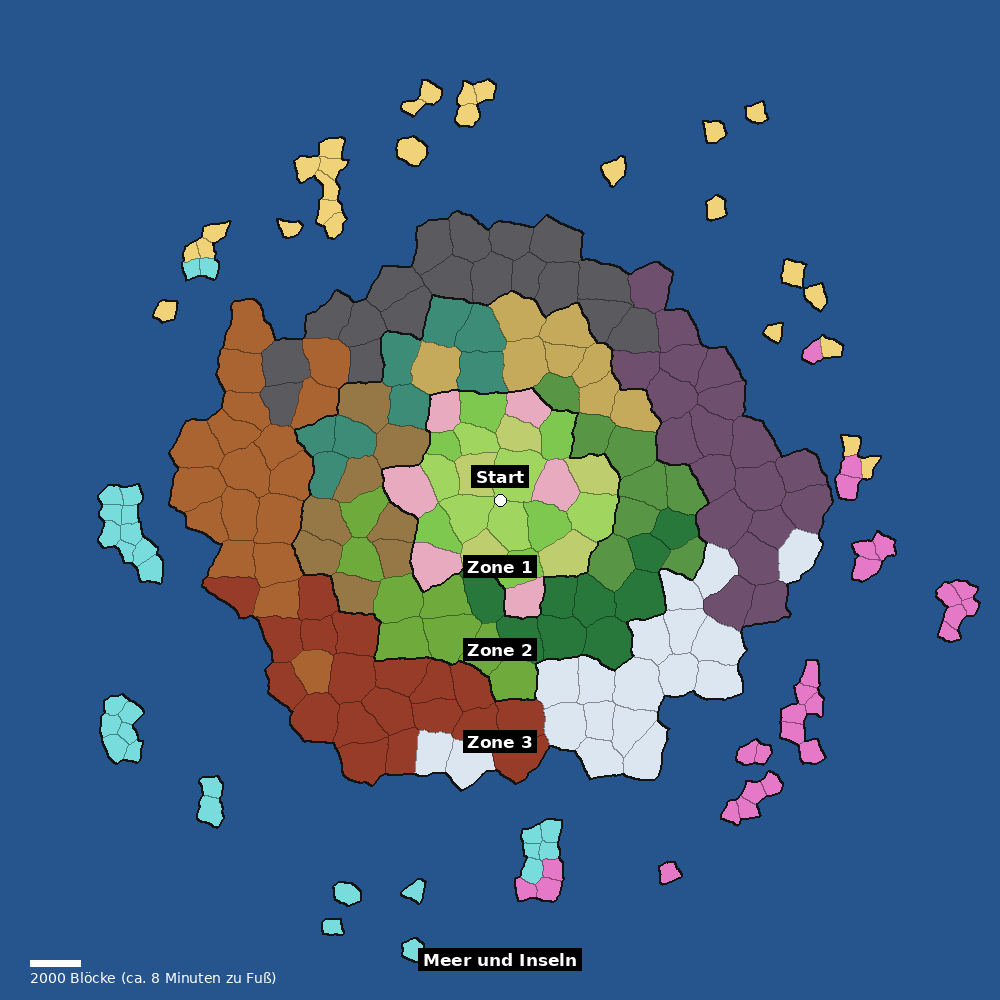
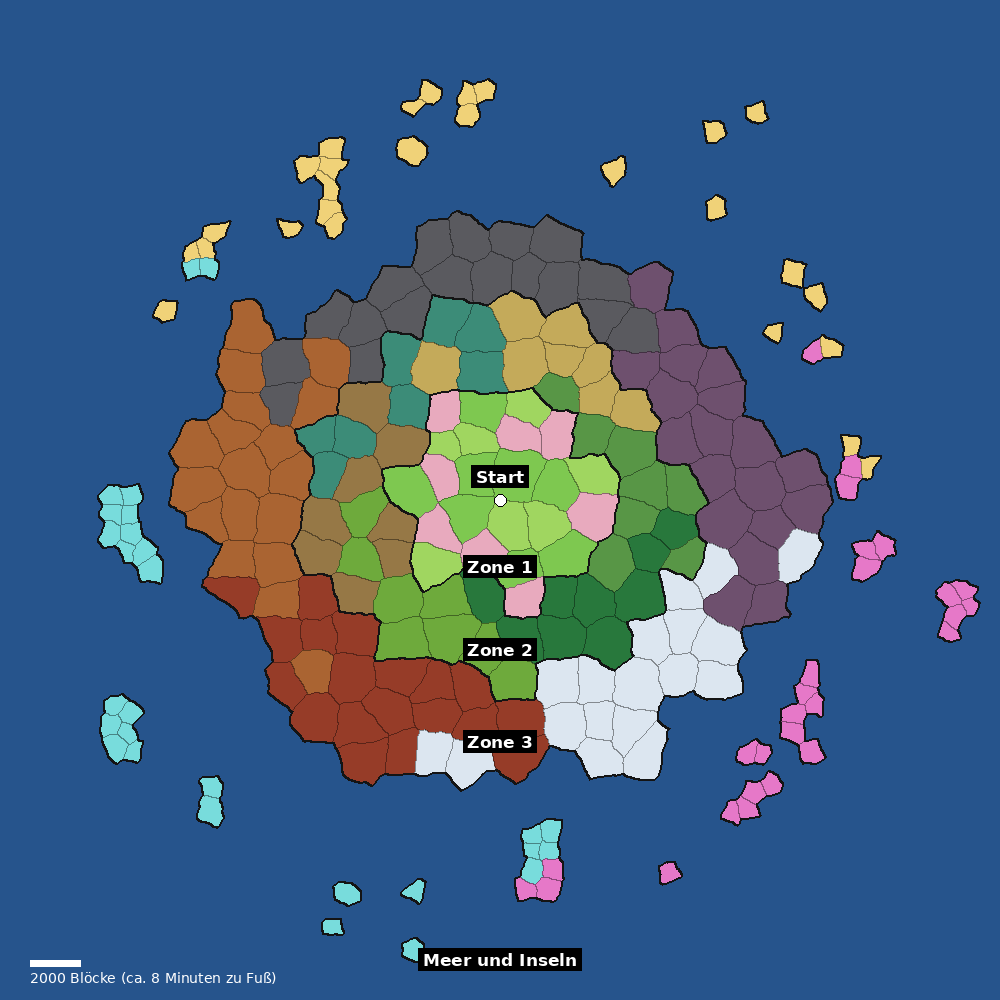
Describe landforms and set three biomes for the start zone
Claude-Session: https://claude.ai/code/session_01CpcsHMU5K4KSjvD6V1ae2q

Changed region(s): [[0.372, 0.372, 0.62, 0.589]]

diff --git a/docs/landschaft/skizze.py b/docs/landschaft/skizze.py
@@ -1,0 +1,59 @@
+# Sketch of four landform formulas of Wanderlore as shaded relief.
+# A discussion aid in Python, not game code. Usage: python3 skizze.py [out.png]
+import sys
+import numpy as np
+from PIL import Image, ImageDraw, ImageFont
+S=800; P=400                      # each panel: S x S nodes, P px
+def vnoise(x,y,scale,seed):
+    r=np.random.default_rng(seed); g=r.random((128,128))
+    xs=x/scale; ys=y/scale; x0=np.floor(xs).astype(int); y0=np.floor(ys).astype(int)
+    fx=xs-x0; fy=ys-y0; fx=fx*fx*(3-2*fx); fy=fy*fy*(3-2*fy)
+    a=g[x0%128,y0%128]; b=g[(x0+1)%128,y0%128]; c=g[x0%128,(y0+1)%128]; d=g[(x0+1)%128,(y0+1)%128]
+    return (a*(1-fx)+b*fx)*(1-fy)+(c*(1-fx)+d*fx)*fy
+def fbm(x,y,scale,seed,oct=4):
+    v=0;amp=1;tot=0
+    for o in range(oct):
+        v+=amp*vnoise(x,y,scale/(2**o),seed+7*o); tot+=amp; amp*=0.5
+    return v/tot*2-1
+def smooth(t): t=np.clip(t,0,1); return t*t*(3-2*t)
+xs=np.linspace(0,S,P); x,z=np.meshgrid(xs,xs)
+def hills():      # gentle hills with stream valleys
+    h=24+22*fbm(x,z,260,1)
+    v=np.abs(fbm(x,z,330,5,2)); return h-14*(1-smooth(v/0.12)), 6
+def terraces():   # stepped terraces with basins
+    b=55+48*fbm(x,z,420,11,3); step=11
+    q=np.floor(b/step); f=b/step-q
+    return step*(q+smooth((f-0.82)/0.18))+0.6*fbm(x,z,40,13,2), 2
+def canyons():    # plateau cut by canyons
+    plateau=84+8*fbm(x,z,200,21)
+    r=1-np.abs(fbm(x,z,360,25,3)); cut=smooth((r-0.80)/0.12)
+    return plateau-72*cut+4*cut*fbm(x,z,50,27,2), 6
+def spires():     # flat ground with needles
+    base=10+4*fbm(x,z,220,31)
+    p=fbm(x,z,55,35,2); return base+118*np.clip((p-0.30)/0.5,0,1)**1.5, 2
+panels=[("Hügel mit Bachtälern (Blossom Downs)",hills,[(60,120,60),(120,190,90),(190,220,140)]),
+        ("Terrassen (Bamboo Terraces)",terraces,[(40,110,90),(110,170,90),(210,220,150)]),
+        ("Schluchten (Ember Scar)",canyons,[(230,120,30),(140,60,40),(200,120,90)]),
+        ("Felsnadeln (Frost Spires)",spires,[(150,190,220),(200,225,240),(250,250,255)])]
+try: f=ImageFont.truetype('/usr/share/fonts/truetype/dejavu/DejaVuSans-Bold.ttf',15); fs=ImageFont.truetype('/usr/share/fonts/truetype/dejavu/DejaVuSans.ttf',13)
+except Exception: f=fs=ImageFont.load_default()
+out=Image.new('RGB',(2*P+30,2*(P+170)+10),(25,28,32)); d=ImageDraw.Draw(out)
+for i,(name,fn,cols) in enumerate(panels):
+    h,water=fn(); lo,hi=h.min(),h.max()
+    t=(h-lo)/(hi-lo+1e-9); c=np.array(cols,float)
+    rgb=np.where(t[...,None]<0.5,c[0]+(c[1]-c[0])*(t[...,None]*2),c[1]+(c[2]-c[1])*((t[...,None]-0.5)*2))
+    gy,gx=np.gradient(h,S/P); sh=np.clip(0.75+0.5*(-gx-gy)/np.sqrt(1+gx*gx+gy*gy)*1.2,0.25,1.35)
+    rgb=np.clip(rgb*sh[...,None],0,255)
+    if name.startswith("Hügel") or name.startswith("Terr"): rgb[h<(0 if name.startswith('Terr') else water+4)]=(60,120,190)
+    ox=10+(i%2)*(P+10); oy=10+(i//2)*(P+170)
+    out.paste(Image.fromarray(rgb.astype(np.uint8)),(ox,oy+24))
+    d.text((ox,oy+2),name,fill=(255,255,255),font=f)
+    # cross section along the middle row
+    row=h[P//2]; py=oy+24+P+8; H=120
+    d.rectangle((ox,py,ox+P,py+H),fill=(40,44,50))
+    sc=H/135.0
+    pts=[(ox+k,py+H-(row[k]+8)*sc) for k in range(P)]
+    d.polygon(pts+[(ox+P,py+H),(ox,py+H)],fill=tuple(cols[1]))
+    d.line((ox,oy+24+P//2,ox+P,oy+24+P//2),fill=(255,255,255),width=1)
+    d.text((ox+4,py+2),"Schnitt entlang der weißen Linie, Höhe %d bis %d Blöcke"%(row.min(),row.max()),fill=(230,230,230),font=fs)
+out.save(sys.argv[1] if len(sys.argv) > 1 else 'skizze.png')

diff --git a/docs/weltkarte/skizze.py b/docs/weltkarte/skizze.py
@@ -44,7 +44,7 @@ zone=np.where((zone==0)&(fd>Z3*1.22)&(fd<Z3*1.52)&(isl>0.30),4,zone)
 fine=(zone==4)|(zone==0)
 bi=np.where(fine,Fi,Ci); bj=np.where(fine,Fj,Cj); bx=np.where(fine,Fx,Cx); bz=np.where(fine,Fz,Cz)
 cid=(bi*100003+bj)*2+fine
-nb={1:4,2:6,3:5,4:3}
+nb={1:3,2:6,3:5,4:3}
 pal={1:[(126,200,80),(160,214,96),(232,170,190),(190,205,110)],
      2:[(40,120,60),(88,150,70),(196,170,90),(60,140,120),(150,120,70),(110,170,60)],
      3:[(150,60,40),(220,230,240),(110,80,110),(90,90,95),(170,100,50)],

diff --git a/docs/konzept.md b/docs/konzept.md
@@ -87,6 +87,7 @@ Stand der Diskussion vom 22.11.2026. Die Skizze dazu liegt unter `docs/weltkarte
 | Fußweg bis zum Rand | ca. 16 Minuten | ca. 31 | ca. 48 | – |
 | Zellgröße | 1.600 | 1.600 | 1.600 | 800 |
 | Zellen in der Skizze | 23 | 49 | 92 | 82 |
+| Biome | 3 | 6 | 5 | 3 |
 | Austeilen der Biome | reihum | nach Richtung | nach Richtung | nach Richtung |
 | Ein Biom-Land ist etwa | 1.600 breit | 4.500 breit | 7.000 breit | Inselgruppen |
 
@@ -102,6 +103,24 @@ Die Regeln:
 - **Die Welt speichert ihre Verteilung** beim Anlegen und rechnet sie nie neu. Neue Biome erscheinen nur in neuen Welten oder neuen Zonen.
 - **Weites Reisen soll kosten.** Es gibt keine Wegsteine. Portale kommen vielleicht später. Betten setzen den Wiedereinstiegspunkt.
 - **Hinter dem Meer ist Platz.** Die Welt reicht bis etwa 31.000 Blöcke; dort können später weitere Kontinente mit neuen Zonen liegen.
+
+### Landschaftsformen
+
+Jedes Biom hat eine Höhenformel, die für eine Position die Geländehöhe liefert. Alle Formen entstehen aus weichem Rauschen, nur anders weiterverarbeitet. Skizze und Skript liegen unter `docs/landschaft/`.
+
+| Form | Verfahren | Werte in der Skizze |
+| --- | --- | --- |
+| Hügel mit Bachtälern | Rauschen als Höhe, ein zweites Rauschen gräbt schmale Täler | Höhen bis etwa 45 Blöcke |
+| Terrassen | Höhe in Stufen gerundet, kurze Rampe an der Kante | Stufen von 11 Blöcken |
+| Schluchten | Hochebene, gefaltetes Rauschen schneidet tief ein | etwa 75 Blöcke tief |
+| Felsnadeln | flacher Boden, feines Rauschen oberhalb einer Schwelle stark überhöht | Spitzen bis etwa 115 Blöcke |
+
+Festgelegt:
+
+- **Kräftige Formen.** Die Landschaft darf deutlich dramatischer sein als in Minetest Game.
+- **Höchstens etwa 120 Blöcke über dem Meer.**
+- **Begehbarkeit nach Zone.** Zone 1 ist überall zu Fuß begehbar. Nach außen wird das Gelände sperriger, in Zone 3 bewusst so, dass man bauen, klettern oder einen Trank nutzen muss.
+- **Dreidimensionales Rauschen** nur dort, wo eine Form es braucht. Echte Nadeln, Bögen und Überhänge gehen mit einer Höhenformel nicht.
 
 ### Technische Knackpunkte
 
@@ -125,7 +144,7 @@ Die Regeln:
 
 | Zone | Charakter | Monster | Strongholds |
 | --- | --- | --- | --- |
-| 1 Startland | freundlich, Grundzutaten | wenige, schwach, nur nachts | kleine Ruinen |
+| 1 Startland | freundlich, Grundzutaten, drei Biome | wenige, schwach, nur nachts | kleine Ruinen |
 | 2 Wildnis | abwechslungsreich, die meisten Kräuter | mehr, mittel | Türme, Schreine |
 | 3 Ödland | karg, gefährlich, seltene Zutaten | stark, auch tags | Festungen mit Endgegner |
 | Inseln | Sonderzone, nur über Wasser erreichbar | eigene | einzelne besondere |
@@ -270,10 +289,9 @@ Grober Umfang: 4.000 bis 5.000 Zeilen Lua. Der unsicherste Posten ist der Genera
 
 ## 14. Offen
 
-1. Drei oder vier Biome im Startland.
-2. Biome: welche Skizzen, welche weiteren.
-3. Feldfrüchte und Speisen auswählen.
-4. Aufteilung der Monster prüfen.
+1. Biome: welche Skizzen, welche weiteren.
+2. Feldfrüchte und Speisen auswählen.
+3. Aufteilung der Monster prüfen.
 
 ## Quellen
 
